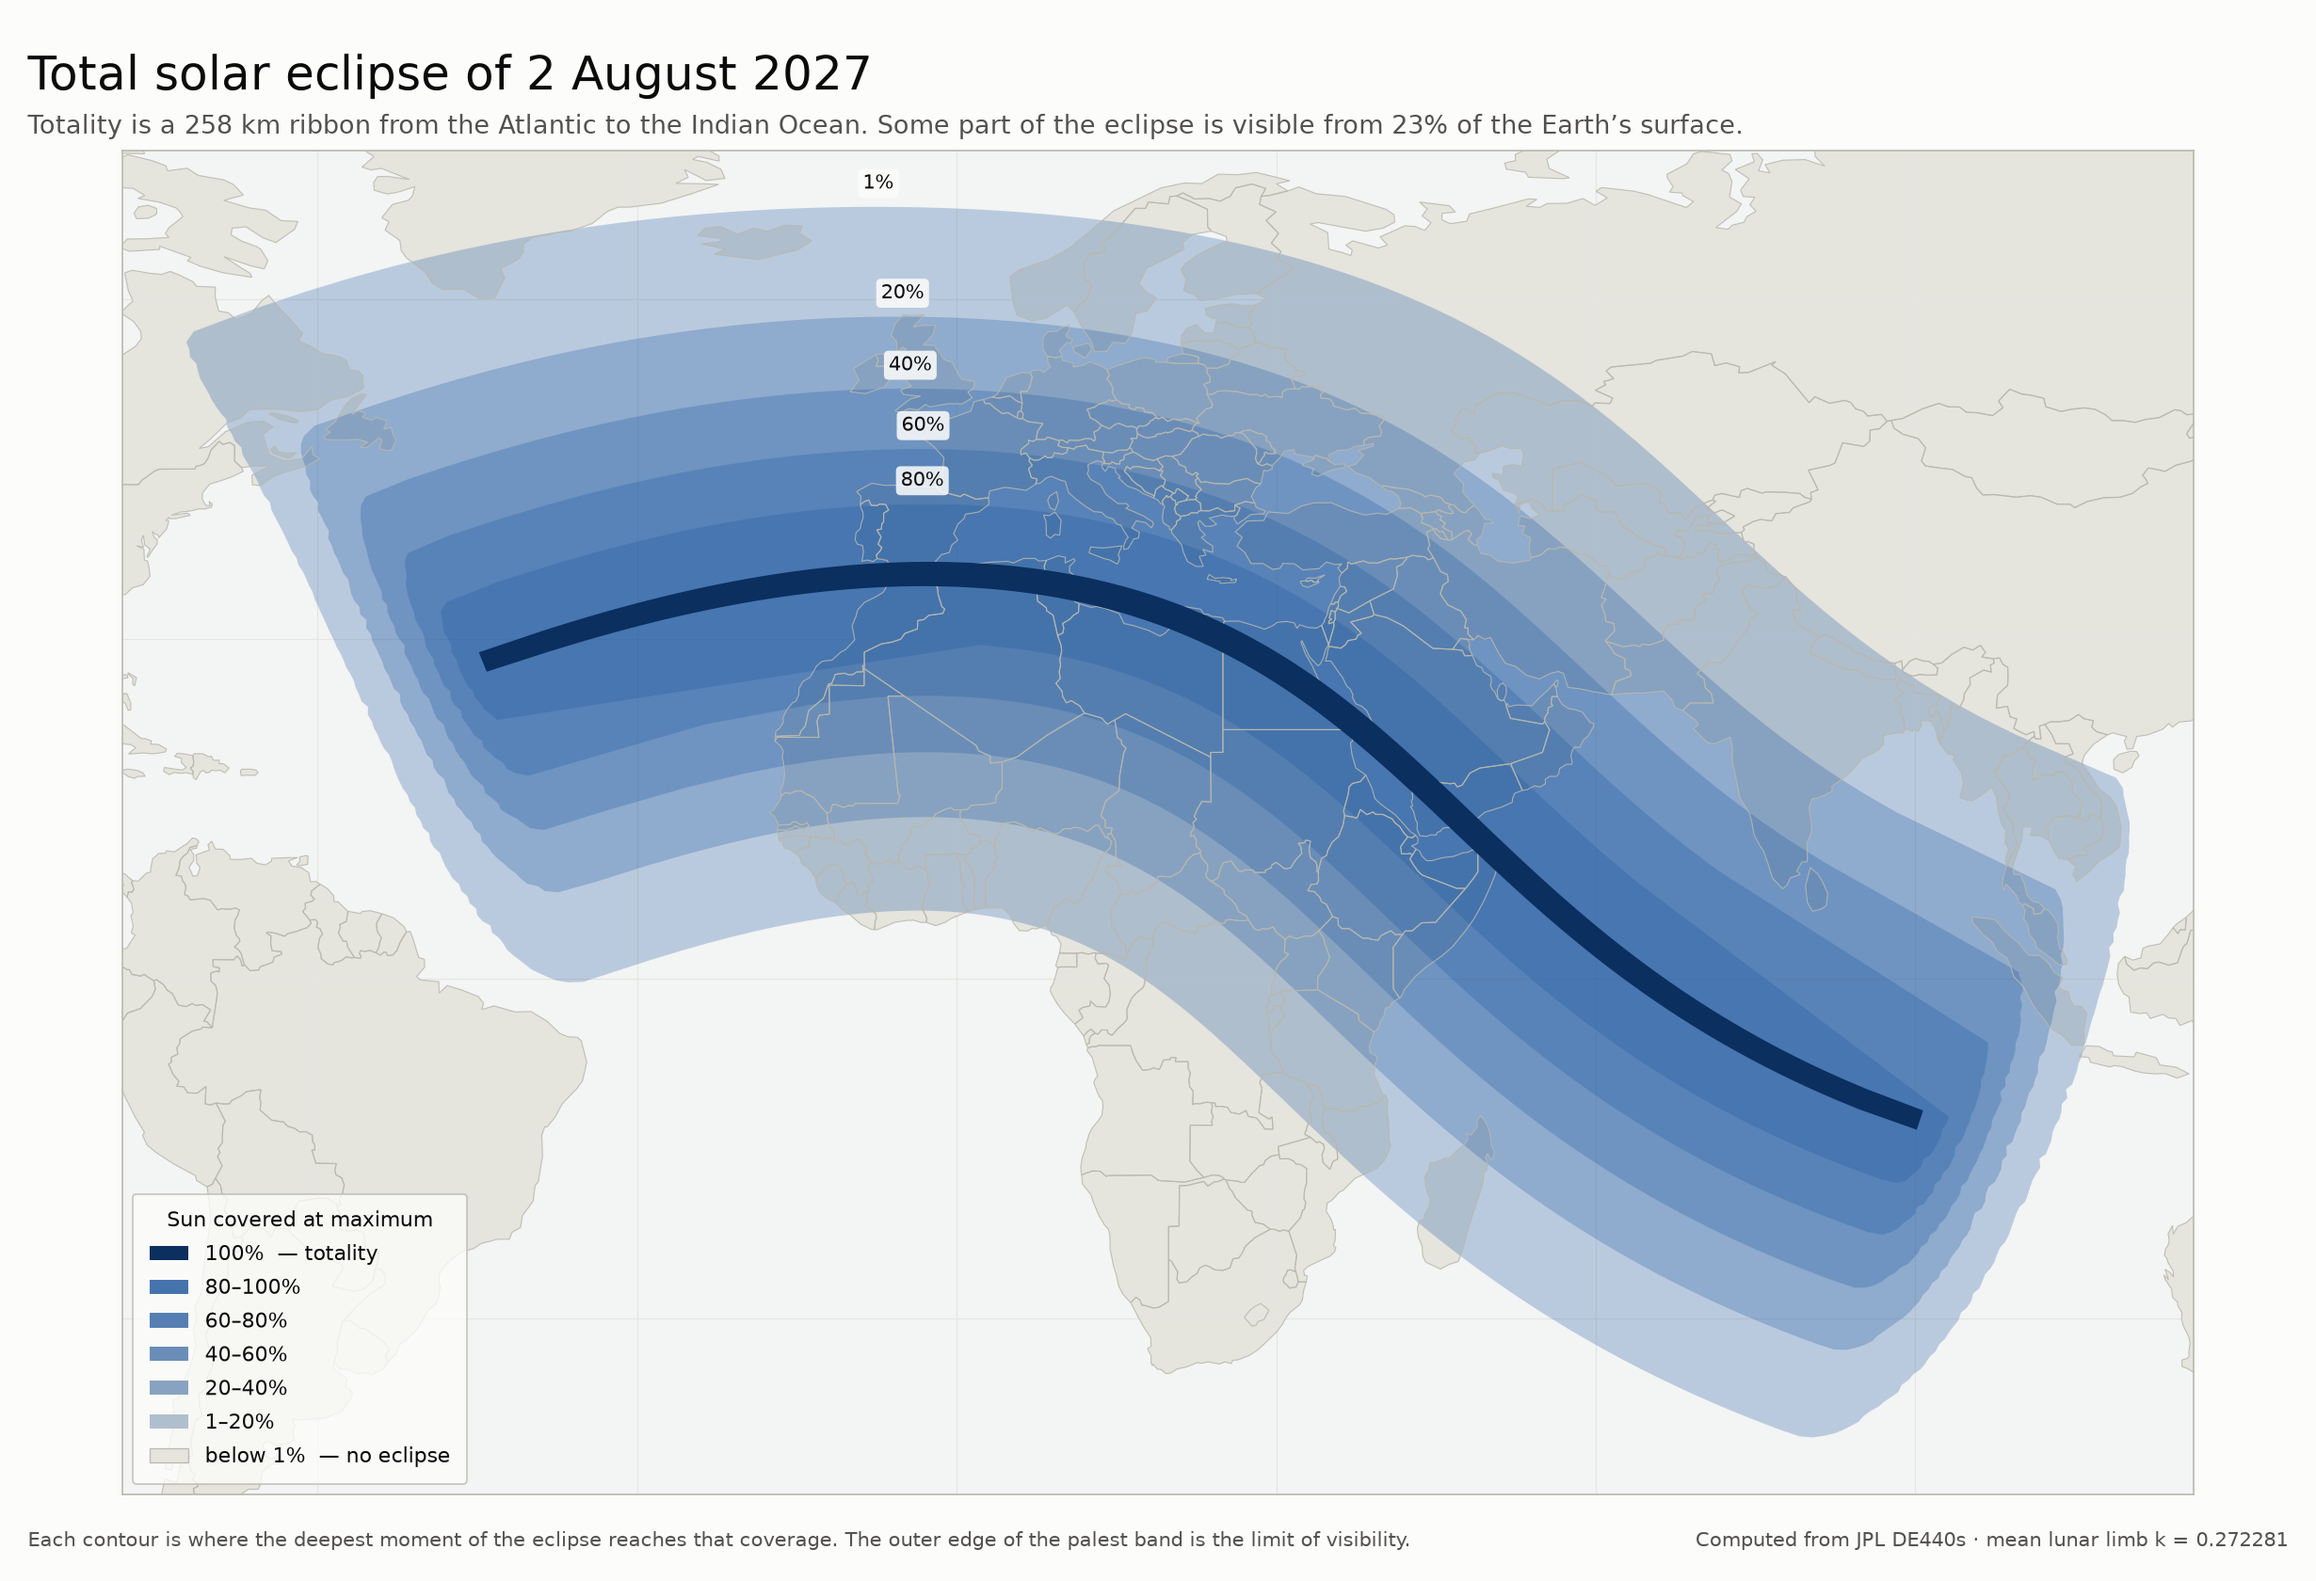
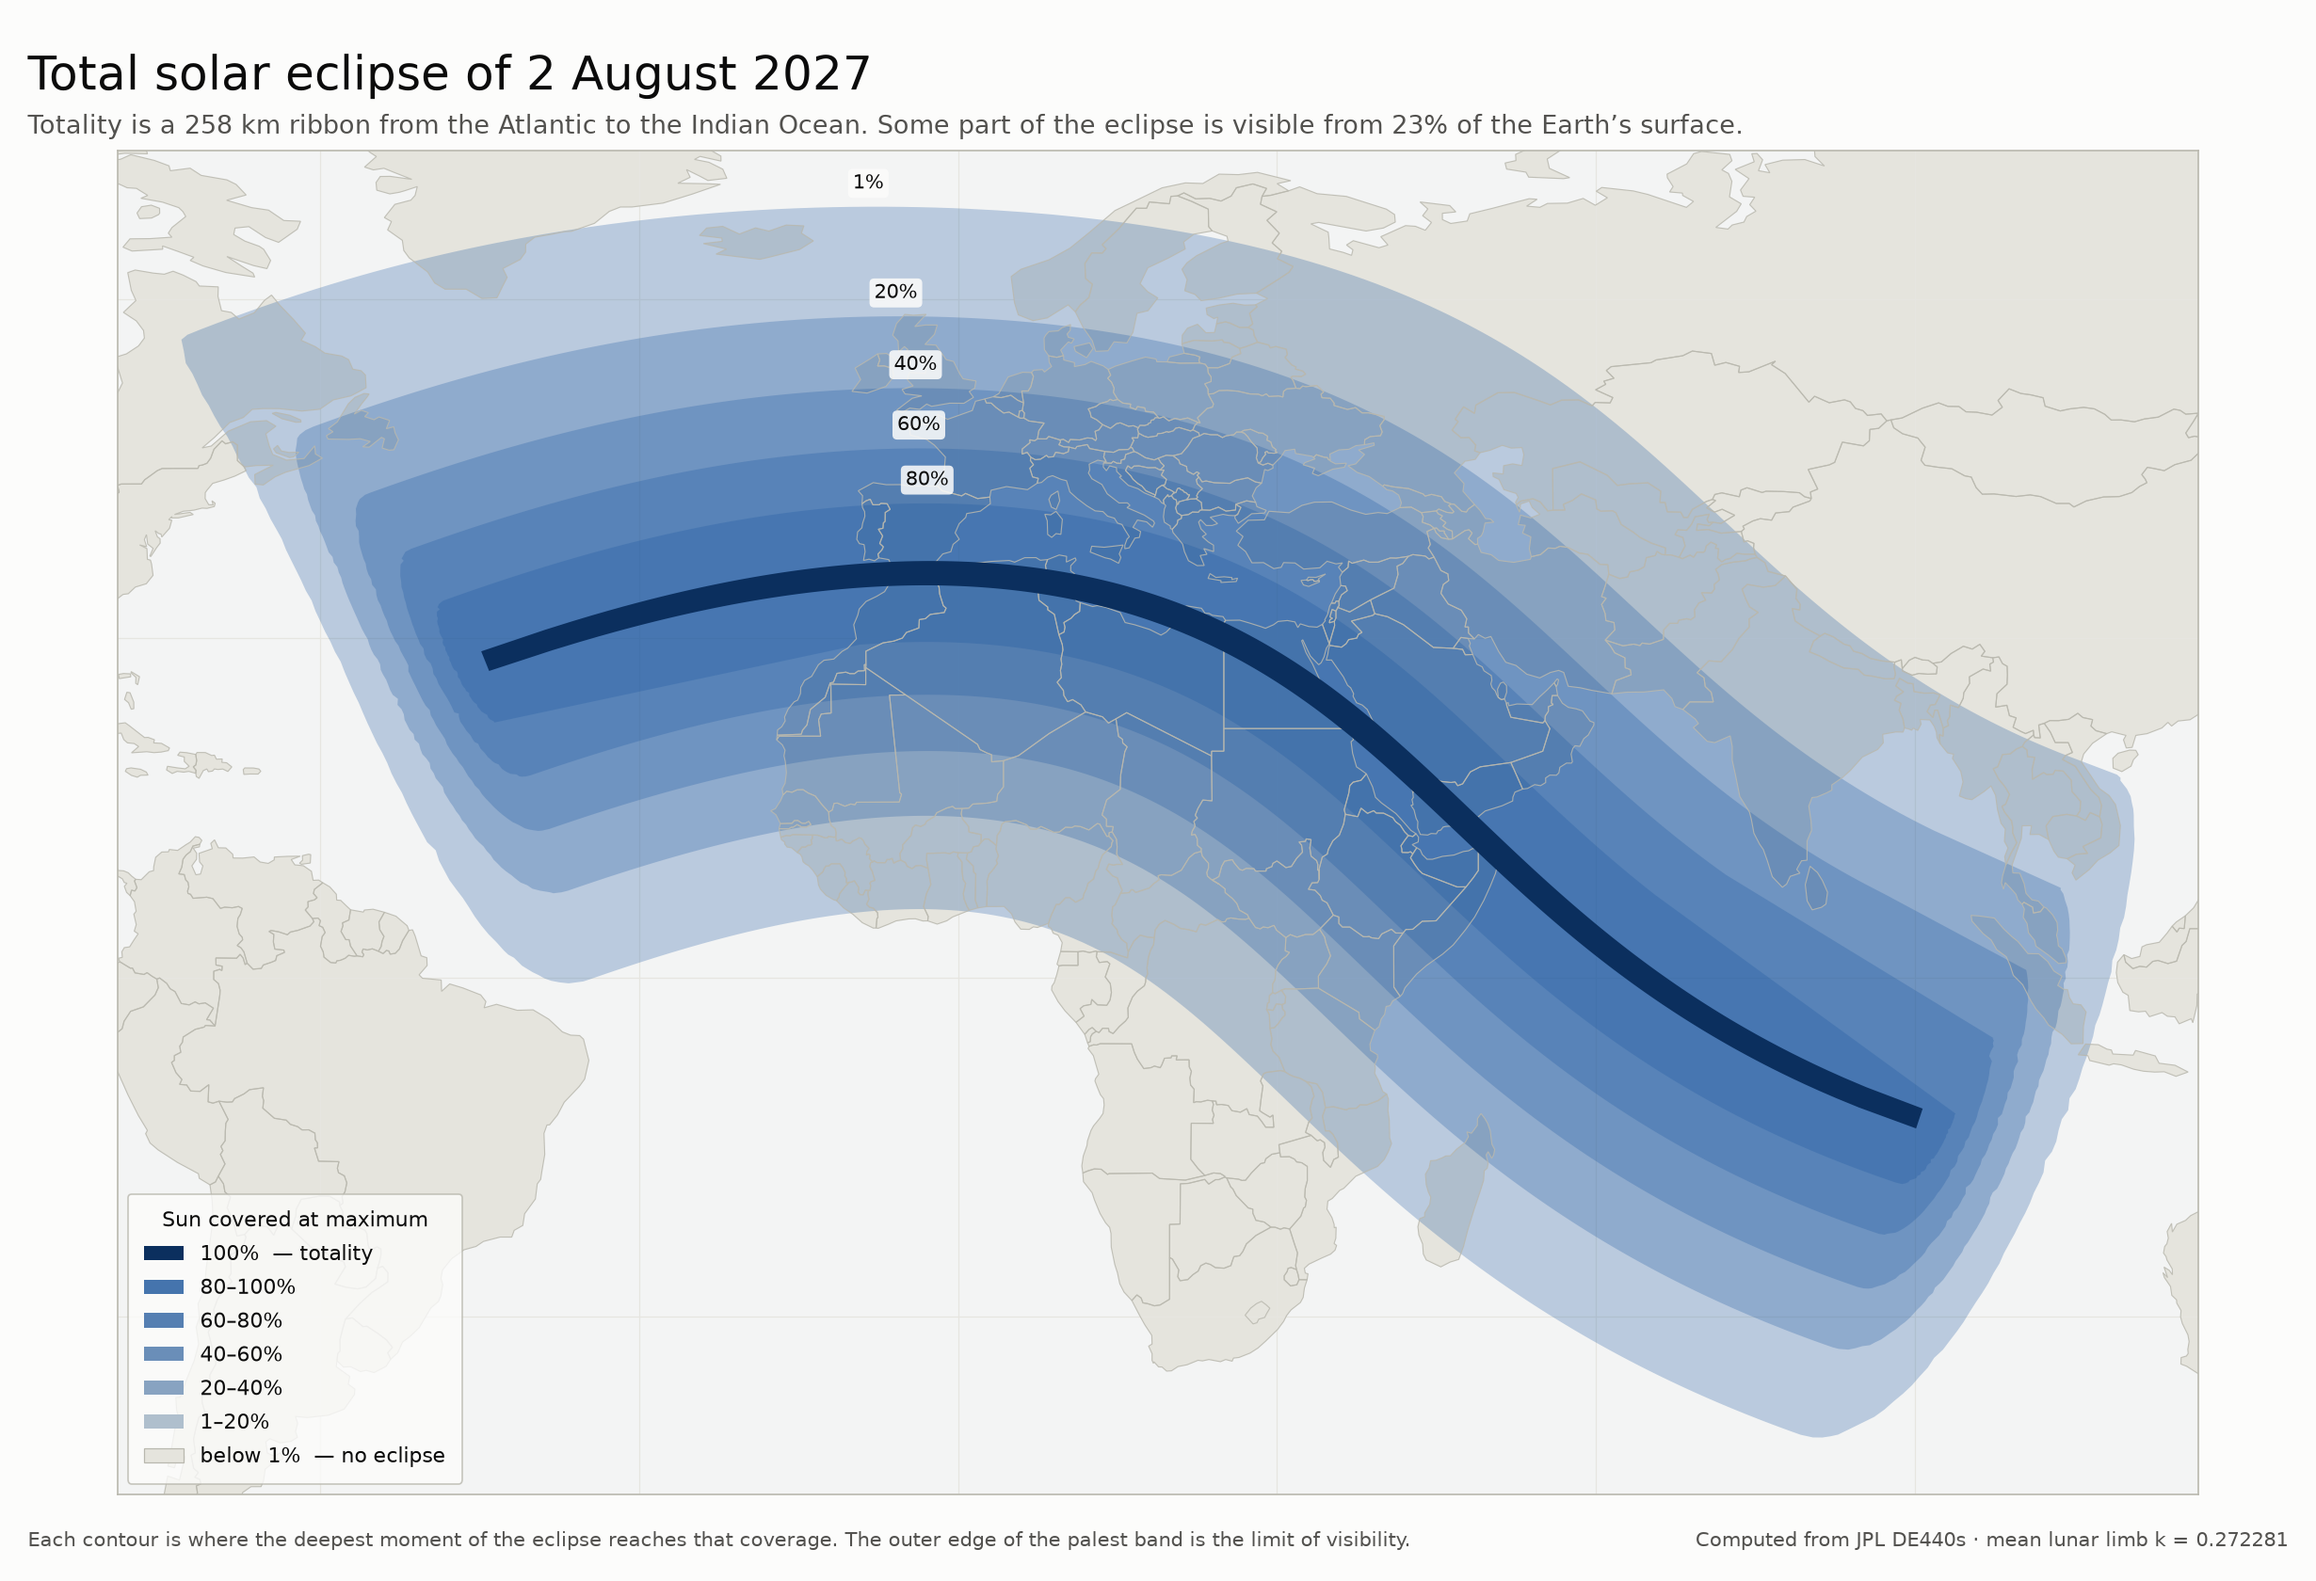
Regenerate the coverage map, and record that smoothing did not show
The map is rebuilt with refraction and the real lunar limb, so its
contours sit about 63 km further out than before.

examples/tip_comparison.png puts the two ends of the outline side by
side, before and against the smoothing work. They look the same. The
median vertex spacing did improve, from 83 km to 26-91 km, but the
visible artefacts at the ends are driven by the largest gaps, not the
median, and those did not move. The statistic improved and the picture
did not, which makes the statistic the wrong thing to have reported.

Part of what is visible there is not an artefact at all: the outline has
a genuine corner where the coverage contour meets the terminator, and a
corner is meant to look like one.

Claude-Session: https://claude.ai/code/session_01D7Wf1dJaW5roDS7if73xQ8

diff --git a/examples/contours.py b/examples/contours.py
@@ -7,7 +7,7 @@ E = analyse(e, ev, threshold=1.0, samples=400)
 
 out = {'eclipse': output.eclipse_detail(E, ts), 'contours': []}
 for th in (0.01, 0.20, 0.40, 0.60, 0.80):
-    r = coverage_region(E, th, rays=540)
+    r = coverage_region(E, th, rays=180)
     out['contours'].append({
         'threshold': th,
         'centre': [r.centre_latitude, r.centre_longitude],
